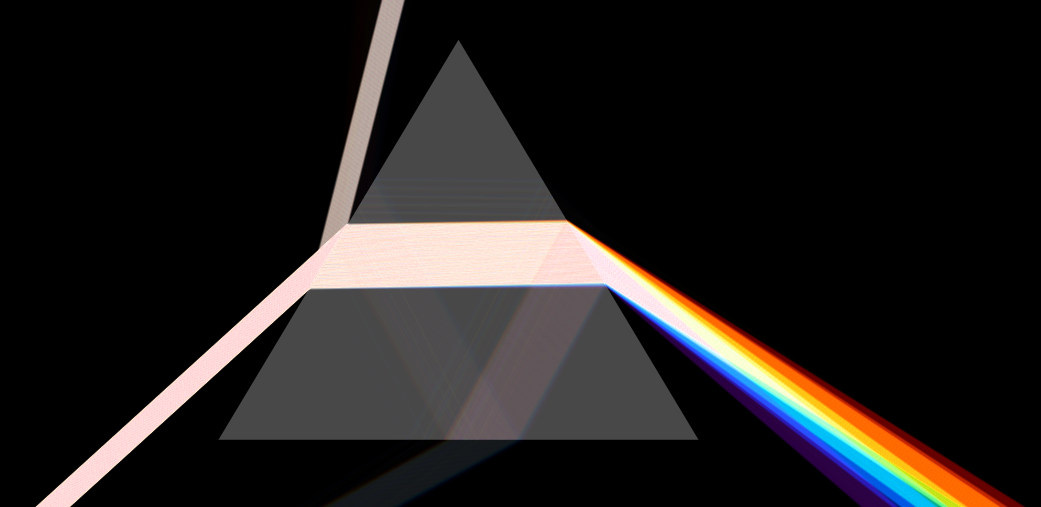
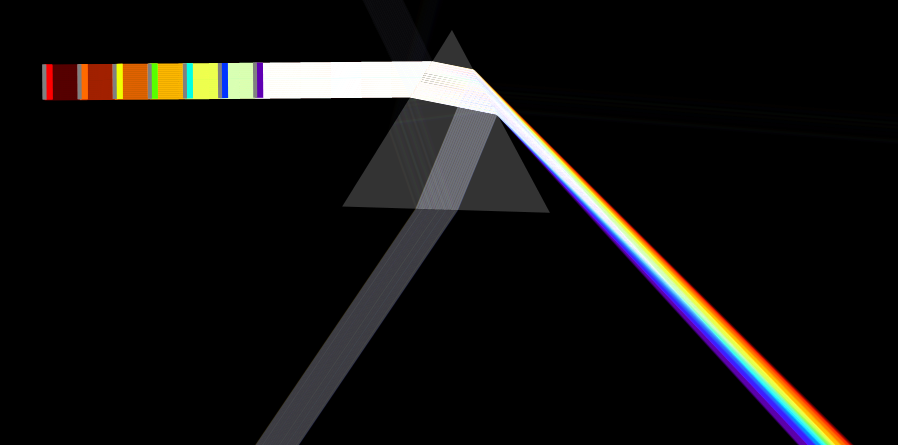
Update homepage

diff --git a/cn/index.html b/cn/index.html
@@ -156,22 +156,21 @@ body {
     <!-- Wrapper for slides -->
     <div class="carousel-inner" role="listbox">
       <div class="item active">
-        <img src="../img/2.svg" alt="2.svg">
+        <a href="https://ricktu288.github.io/ray-optics/simulator/#compound-microscope" target="_blank"><img src="3.svg" alt="3.svg"></a>
       </div>
       <div class="item">
-        <img src="../img/1.svg" alt="1.svg">
+        <a href="https://ricktu288.github.io/ray-optics/simulator/#spherical-lens-and-mirror" target="_blank"><img src="../img/1.svg" alt="1.svg"></a>
       </div>
       <div class="item">
-        <img src="../img/3.svg" alt="3.svg">
+        <a href="https://ricktu288.github.io/ray-optics/simulator/#apparent-depth" target="_blank"><img src="5.svg" alt="5.svg"></a>
       </div>
       <div class="item">
-        <img src="../img/4.svg" alt="4.svg">
+        <a href="https://ricktu288.github.io/ray-optics/simulator/#chromatic-dispersion" target="_blank"><img src="6.png" alt="6.png"></a>
       </div>
       <div class="item">
-        <img src="../img/5.svg" alt="5.svg">
+        <a href="https://ricktu288.github.io/ray-optics/simulator/#images-formed-by-two-mirrors" target="_blank"><img src="../img/4.svg" alt="4.svg"></a>
       </div>
     </div>
-
     <!-- Left and right controls -->
     <a class="left carousel-control" href="#screenshots" role="button" data-slide="prev">
       <span class="glyphicon glyphicon-chevron-left" aria-hidden="true"></span>
@@ -219,7 +218,7 @@ body {
           <img src="../img/mirror_arc.svg" alt="Mirror (Curved)" class="img-rounded" style="width:100px;height:100px;">
           <div class="caption">
             <p class="tool-title" id="mirror_arc">镜子 (曲线)</p>
-            <span id="mirror_arc_desc">曲线形的镜子。可选圆弧或抛物线。</span>
+            <span id="mirror_arc_desc">曲线形的镜子。可选圆弧、抛物线，或自定义函数 y = f(x)。</span>
           </div>
         </div>
         <div class="row thumbnail right-caption">
@@ -247,7 +246,7 @@ body {
           <img src="../img/glass.svg" alt="Glass (Other shapes)" class="img-rounded" style="width:100px;height:100px;">
           <div class="caption">
             <p class="tool-title" id="glass">透光物 (其他形状)</p>
-            <span id="glass_desc">任何由线段与圆弧组成的透光物，包括三棱镜与"球面"透镜。</span>
+            <span id="glass_desc">任何由线段与圆弧组成的透光物，或自定义不等式 f(x) &lt; y &lt; g(x)。</span>
           </div>
         </div>
         <div class="row thumbnail right-caption">
@@ -339,7 +338,7 @@ body {
         </div>
         <div class="row thumbnail">
           <div class="caption">
-            <p class="mode-title" id="simulate_colors">模拟色彩<sup><span class="badge" style="background:orange">beta</span></sup></p>
+            <p class="mode-title" id="simulate_colors">模拟色彩<sup><span class="badge" style="background:orange">Beta</span></sup></p>
             <span id="simulate_colors_desc">
 模拟光源的颜色（波长）、混色与透光物的色散。
             </span>

diff --git a/tw/index.html b/tw/index.html
@@ -156,19 +156,19 @@ body {
     <!-- Wrapper for slides -->
     <div class="carousel-inner" role="listbox">
       <div class="item active">
-        <img src="../img/2.svg" alt="2.svg">
+        <a href="https://ricktu288.github.io/ray-optics/simulator/#compound-microscope" target="_blank"><img src="3.svg" alt="3.svg"></a>
       </div>
       <div class="item">
-        <img src="../img/1.svg" alt="1.svg">
+        <a href="https://ricktu288.github.io/ray-optics/simulator/#spherical-lens-and-mirror" target="_blank"><img src="../img/1.svg" alt="1.svg"></a>
       </div>
       <div class="item">
-        <img src="../img/3.svg" alt="3.svg">
+        <a href="https://ricktu288.github.io/ray-optics/simulator/#apparent-depth" target="_blank"><img src="5.svg" alt="5.svg"></a>
       </div>
       <div class="item">
-        <img src="../img/4.svg" alt="4.svg">
+        <a href="https://ricktu288.github.io/ray-optics/simulator/#chromatic-dispersion" target="_blank"><img src="6.png" alt="6.png"></a>
       </div>
       <div class="item">
-        <img src="../img/5.svg" alt="5.svg">
+        <a href="https://ricktu288.github.io/ray-optics/simulator/#images-formed-by-two-mirrors" target="_blank"><img src="../img/4.svg" alt="4.svg"></a>
       </div>
     </div>
 
@@ -219,7 +219,7 @@ body {
           <img src="../img/mirror_arc.svg" alt="Mirror (Curved)" class="img-rounded">
           <div class="caption">
             <p class="tool-title" id="mirror_arc">鏡子 (曲線)</p>
-            <span id="mirror_arc_desc">曲線形的鏡子。可選圓弧或拋物線。</span>
+            <span id="mirror_arc_desc">曲線形的鏡子。可選圓弧、拋物線，或自訂函數 y = f(x)。</span>
           </div>
         </div>
         <div class="row thumbnail right-caption">
@@ -247,7 +247,7 @@ body {
           <img src="../img/glass.svg" alt="Glass (Other shapes)" class="img-rounded" style="width:100px;height:100px;">
           <div class="caption">
             <p class="tool-title" id="glass">透光物 (其他形狀)</p>
-            <span id="glass_desc">任何由線段與圓弧組成的透光物，包括三稜鏡與「球面」透鏡。</span>
+            <span id="glass_desc">任何由線段與圓弧組成的透光物，或自訂不等式 f(x) &lt; y &lt; g(x)。</span>
           </div>
         </div>
         <div class="row thumbnail right-caption">
@@ -339,7 +339,7 @@ body {
         </div>
         <div class="row thumbnail">
           <div class="caption">
-            <p class="mode-title" id="simulate_colors">模擬色彩<sup><span class="badge" style="background:orange">beta</span></sup></p>
+            <p class="mode-title" id="simulate_colors">模擬色彩<sup><span class="badge" style="background:orange">Beta</span></sup></p>
             <span id="simulate_colors_desc">
 模擬光源的顏色（波長）、混色與透光物的色散。
             </span>

diff --git a/index.html b/index.html
@@ -161,19 +161,19 @@ body {
     <!-- Wrapper for slides -->
     <div class="carousel-inner" role="listbox">
       <div class="item active">
-        <img src="img/2.svg" alt="2.svg">
+        <a href="https://ricktu288.github.io/ray-optics/simulator/#compound-microscope" target="_blank"><img src="img/3.svg" alt="3.svg"></a>
       </div>
       <div class="item">
-        <img src="img/1.svg" alt="1.svg">
+        <a href="https://ricktu288.github.io/ray-optics/simulator/#spherical-lens-and-mirror" target="_blank"><img src="img/1.svg" alt="1.svg"></a>
       </div>
       <div class="item">
-        <img src="img/3.svg" alt="3.svg">
+        <a href="https://ricktu288.github.io/ray-optics/simulator/#apparent-depth" target="_blank"><img src="img/5.svg" alt="5.svg"></a>
       </div>
       <div class="item">
-        <img src="img/4.svg" alt="4.svg">
+        <a href="https://ricktu288.github.io/ray-optics/simulator/#chromatic-dispersion" target="_blank"><img src="img/6.png" alt="6.png"></a>
       </div>
       <div class="item">
-        <img src="img/5.svg" alt="5.svg">
+        <a href="https://ricktu288.github.io/ray-optics/simulator/#images-formed-by-two-mirrors" target="_blank"><img src="img/4.svg" alt="4.svg"></a>
       </div>
     </div>
 
@@ -235,7 +235,7 @@ body {
           <div class="caption">
             <p class="tool-title" id="mirror_arc">Mirror (Curved)</p>
             <span id="mirror_arc_desc">
-              A mirror whose shape is curved. Circular and parabolic curves are available.
+              A mirror whose shape is curved. Can be circular, parabolic, or defined by a custom equation y = f(x).
             </span>
           </div>
         </div>
@@ -272,8 +272,7 @@ body {
           <div class="caption">
             <p class="tool-title" id="glass">Glass (Other shapes)</p>
             <span id="glass_desc">
-              Glass with any shapes constructed from line segments and circular arcs,
-              including prisms and "spherical" lenses.
+              Glass with any shapes constructed from line segments and circular arcs, or shapes defined by a custom inequality f(x) &lt; y &lt; g(x).
             </span>
           </div>
         </div>
@@ -396,7 +395,7 @@ body {
         </div>
         <div class="row thumbnail">
           <div class="caption">
-            <p class="mode-title" id="simulate_colors">Simulate Colors<sup><span class="badge" style="background:orange">beta</span></sup></p>
+            <p class="mode-title" id="simulate_colors">Simulate Colors<sup><span class="badge" style="background:orange">Beta</span></sup></p>
             <span id="simulate_colors_desc">
 Simulate colors (wavelengths) of light sources, mixture of colors, and chromatic dispersion of glasses.
             </span>

diff --git a/ru/index.html b/ru/index.html
@@ -143,7 +143,6 @@ body {
     </p>
     <p>
       <a href="https://ricktu288.github.io/ray-optics/simulator/?ru" target="_blank" class="btn btn-success btn-lg" id="start">Запустить приложение</a>
-      <a href="https://github.com/ricktu288/ray-optics" class="btn btn-primary btn-lg" id="github_link">Посмотреть на GitHub</a>
     </p>
   </center>
   <br>
@@ -160,19 +159,19 @@ body {
     <!-- Wrapper for slides -->
     <div class="carousel-inner" role="listbox">
       <div class="item active">
-        <img src="../img/2.svg" alt="2.svg">
+        <a href="https://ricktu288.github.io/ray-optics/simulator/#spherical-lens-and-mirror" target="_blank"><img src="../img/1.svg" alt="1.svg"></a>
       </div>
       <div class="item">
-        <img src="../img/1.svg" alt="1.svg">
+        <a href="https://ricktu288.github.io/ray-optics/simulator/#images-formed-by-two-mirrors" target="_blank"><img src="../img/4.svg" alt="4.svg"></a>
       </div>
       <div class="item">
-        <img src="../img/3.svg" alt="3.svg">
+        <a href="https://ricktu288.github.io/ray-optics/simulator/#compound-microscope" target="_blank"><img src="../img/3.svg" alt="3.svg"></a>
       </div>
       <div class="item">
-        <img src="../img/4.svg" alt="4.svg">
+        <a href="https://ricktu288.github.io/ray-optics/simulator/#apparent-depth" target="_blank"><img src="../img/5.svg" alt="../img/5.svg"></a>
       </div>
       <div class="item">
-        <img src="../img/5.svg" alt="5.svg">
+        <a href="https://ricktu288.github.io/ray-optics/simulator/#chromatic-dispersion" target="_blank"><img src="../img/6.png" alt="../img/6.png"></a>
       </div>
     </div>
 

diff --git a/fr/index.html b/fr/index.html
@@ -156,19 +156,19 @@ body {
     <!-- Wrapper for slides -->
     <div class="carousel-inner" role="listbox">
       <div class="item active">
-        <img src="../img/2.svg" alt="2.svg">
+        <a href="https://ricktu288.github.io/ray-optics/simulator/#spherical-lens-and-mirror" target="_blank"><img src="../img/1.svg" alt="1.svg"></a>
       </div>
       <div class="item">
-        <img src="../img/1.svg" alt="1.svg">
+        <a href="https://ricktu288.github.io/ray-optics/simulator/#images-formed-by-two-mirrors" target="_blank"><img src="../img/4.svg" alt="4.svg"></a>
       </div>
       <div class="item">
-        <img src="../img/3.svg" alt="3.svg">
+        <a href="https://ricktu288.github.io/ray-optics/simulator/#compound-microscope" target="_blank"><img src="../img/3.svg" alt="3.svg"></a>
       </div>
       <div class="item">
-        <img src="../img/4.svg" alt="4.svg">
+        <a href="https://ricktu288.github.io/ray-optics/simulator/#apparent-depth" target="_blank"><img src="../img/5.svg" alt="../img/5.svg"></a>
       </div>
       <div class="item">
-        <img src="../img/5.svg" alt="5.svg">
+        <a href="https://ricktu288.github.io/ray-optics/simulator/#chromatic-dispersion" target="_blank"><img src="../img/6.png" alt="../img/6.png"></a>
       </div>
     </div>
 

diff --git a/nl/index.html b/nl/index.html
@@ -159,19 +159,19 @@ body {
     <!-- Wrapper for slides -->
     <div class="carousel-inner" role="listbox">
       <div class="item active">
-        <img src="../img/2.svg" alt="2.svg">
+        <a href="https://ricktu288.github.io/ray-optics/simulator/#spherical-lens-and-mirror" target="_blank"><img src="../img/1.svg" alt="1.svg"></a>
       </div>
       <div class="item">
-        <img src="../img/1.svg" alt="1.svg">
+        <a href="https://ricktu288.github.io/ray-optics/simulator/#images-formed-by-two-mirrors" target="_blank"><img src="../img/4.svg" alt="4.svg"></a>
       </div>
       <div class="item">
-        <img src="../img/3.svg" alt="3.svg">
+        <a href="https://ricktu288.github.io/ray-optics/simulator/#compound-microscope" target="_blank"><img src="../img/3.svg" alt="3.svg"></a>
       </div>
       <div class="item">
-        <img src="../img/4.svg" alt="4.svg">
+        <a href="https://ricktu288.github.io/ray-optics/simulator/#apparent-depth" target="_blank"><img src="../img/5.svg" alt="../img/5.svg"></a>
       </div>
       <div class="item">
-        <img src="../img/5.svg" alt="5.svg">
+        <a href="https://ricktu288.github.io/ray-optics/simulator/#chromatic-dispersion" target="_blank"><img src="../img/6.png" alt="../img/6.png"></a>
       </div>
     </div>
 
